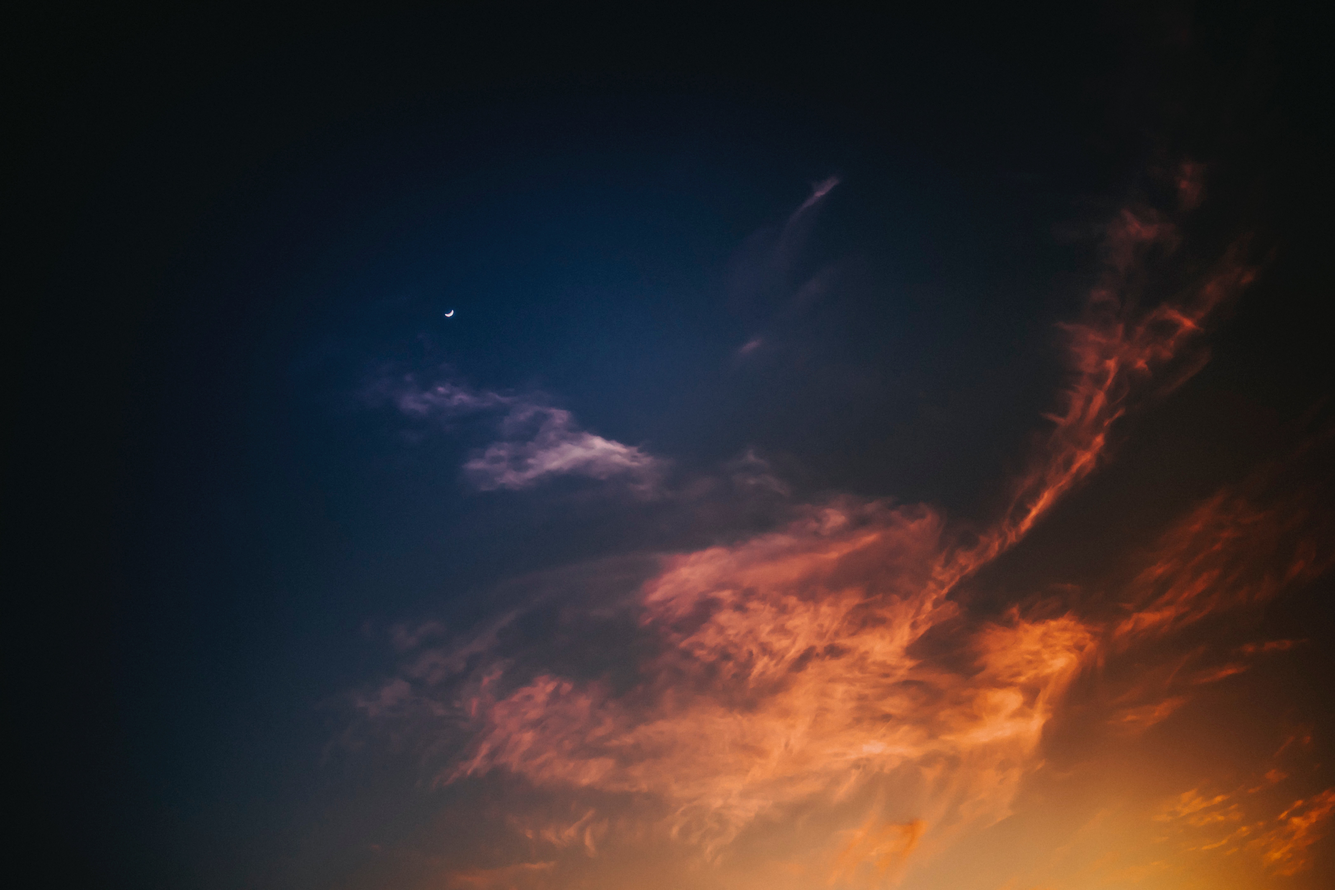
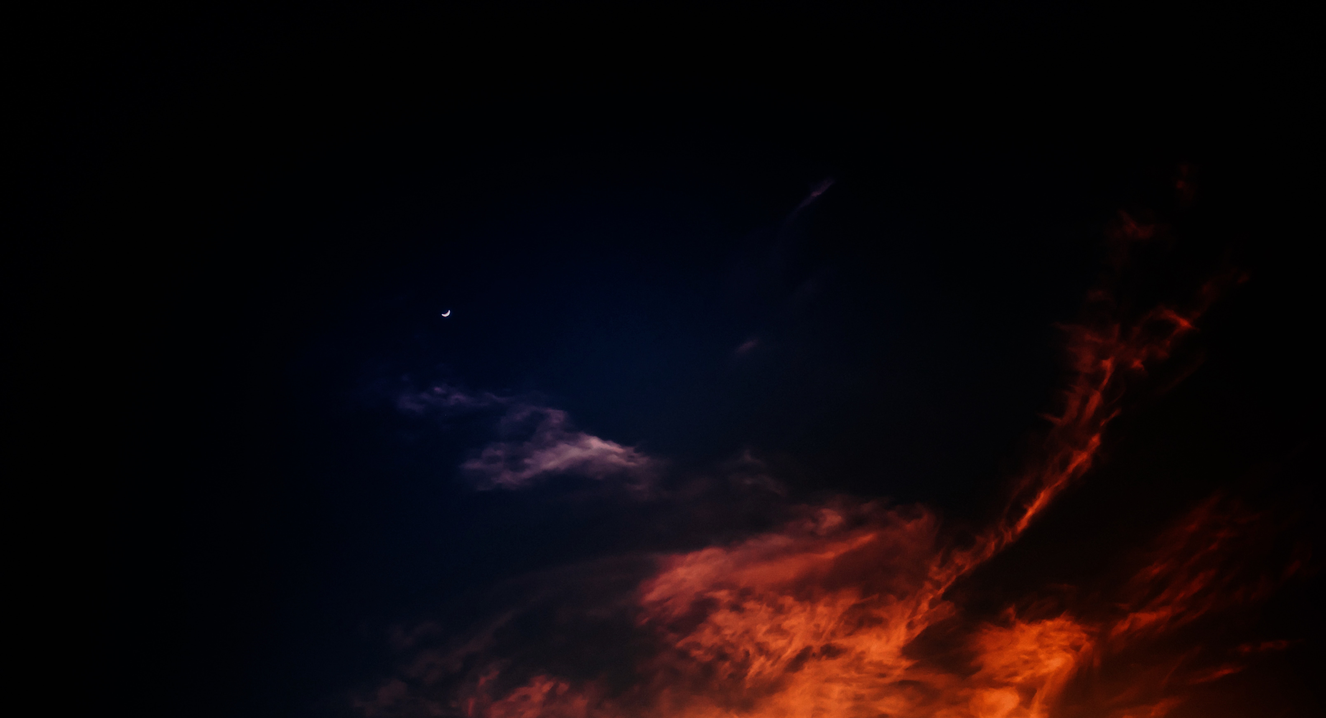
modify background color for accessibility

diff --git a/assets/css/main.css b/assets/css/main.css
@@ -2382,7 +2382,7 @@ body.homepage #header h1 {
 
 body.homepage #header:after {
   content: '';
-  background: #0f0e1e;
+  background: #06060c;
   display: block;
   position: absolute;
   left: 0;
